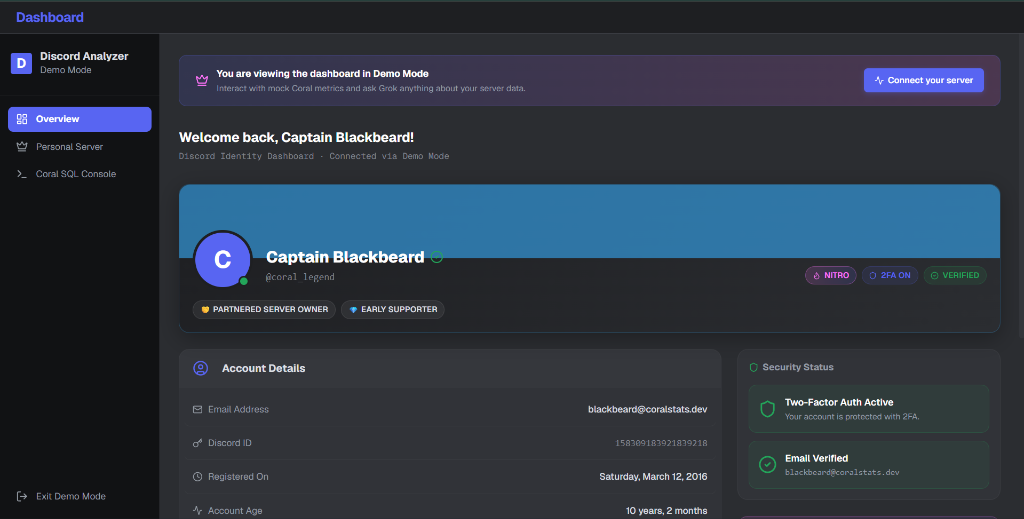
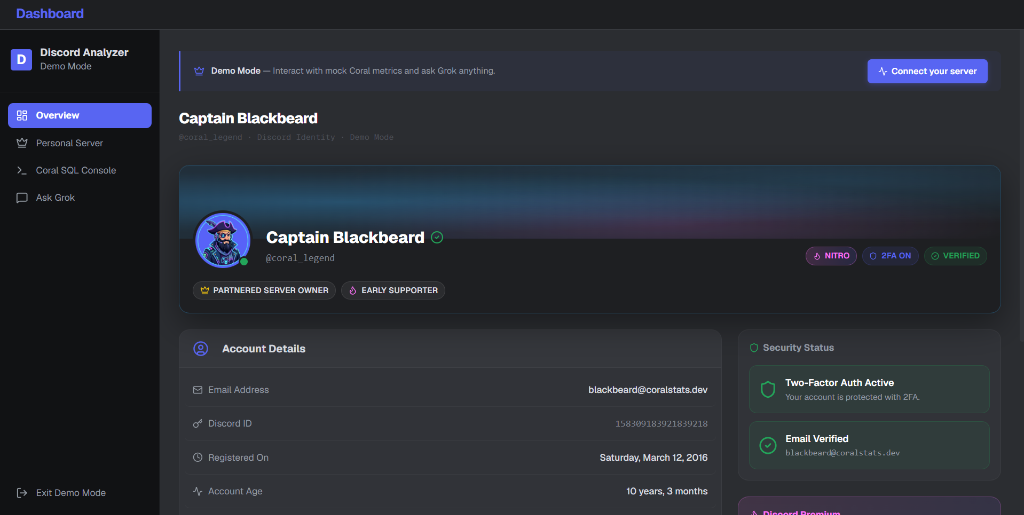
Update CoralStats project image and description

diff --git a/src/data/project.js b/src/data/project.js
@@ -113,7 +113,7 @@ export const projectsData = [
     ],
     problem:
 
-      "Community managers often struggle to find useful insights from large amounts of data. CoralStats makes it easy by turning API data into simple, accurate answers and reports using AI and Coral stats.",
+      "Community managers struggle to find important information hidden in thousands of Discord messages. By inviting the CoralStats Bot, server data and conversations become searchable, allowing AI to provide instant insights, answers, and reports.",
     learned:
       "Built local SQL regex parsing logic from scratch to handle complex queries. Optimized two-stage latency using Groq's high-speed inference and learned to multiplex a ReadableStream to send JSON metadata before text tokens.",
     links: {
